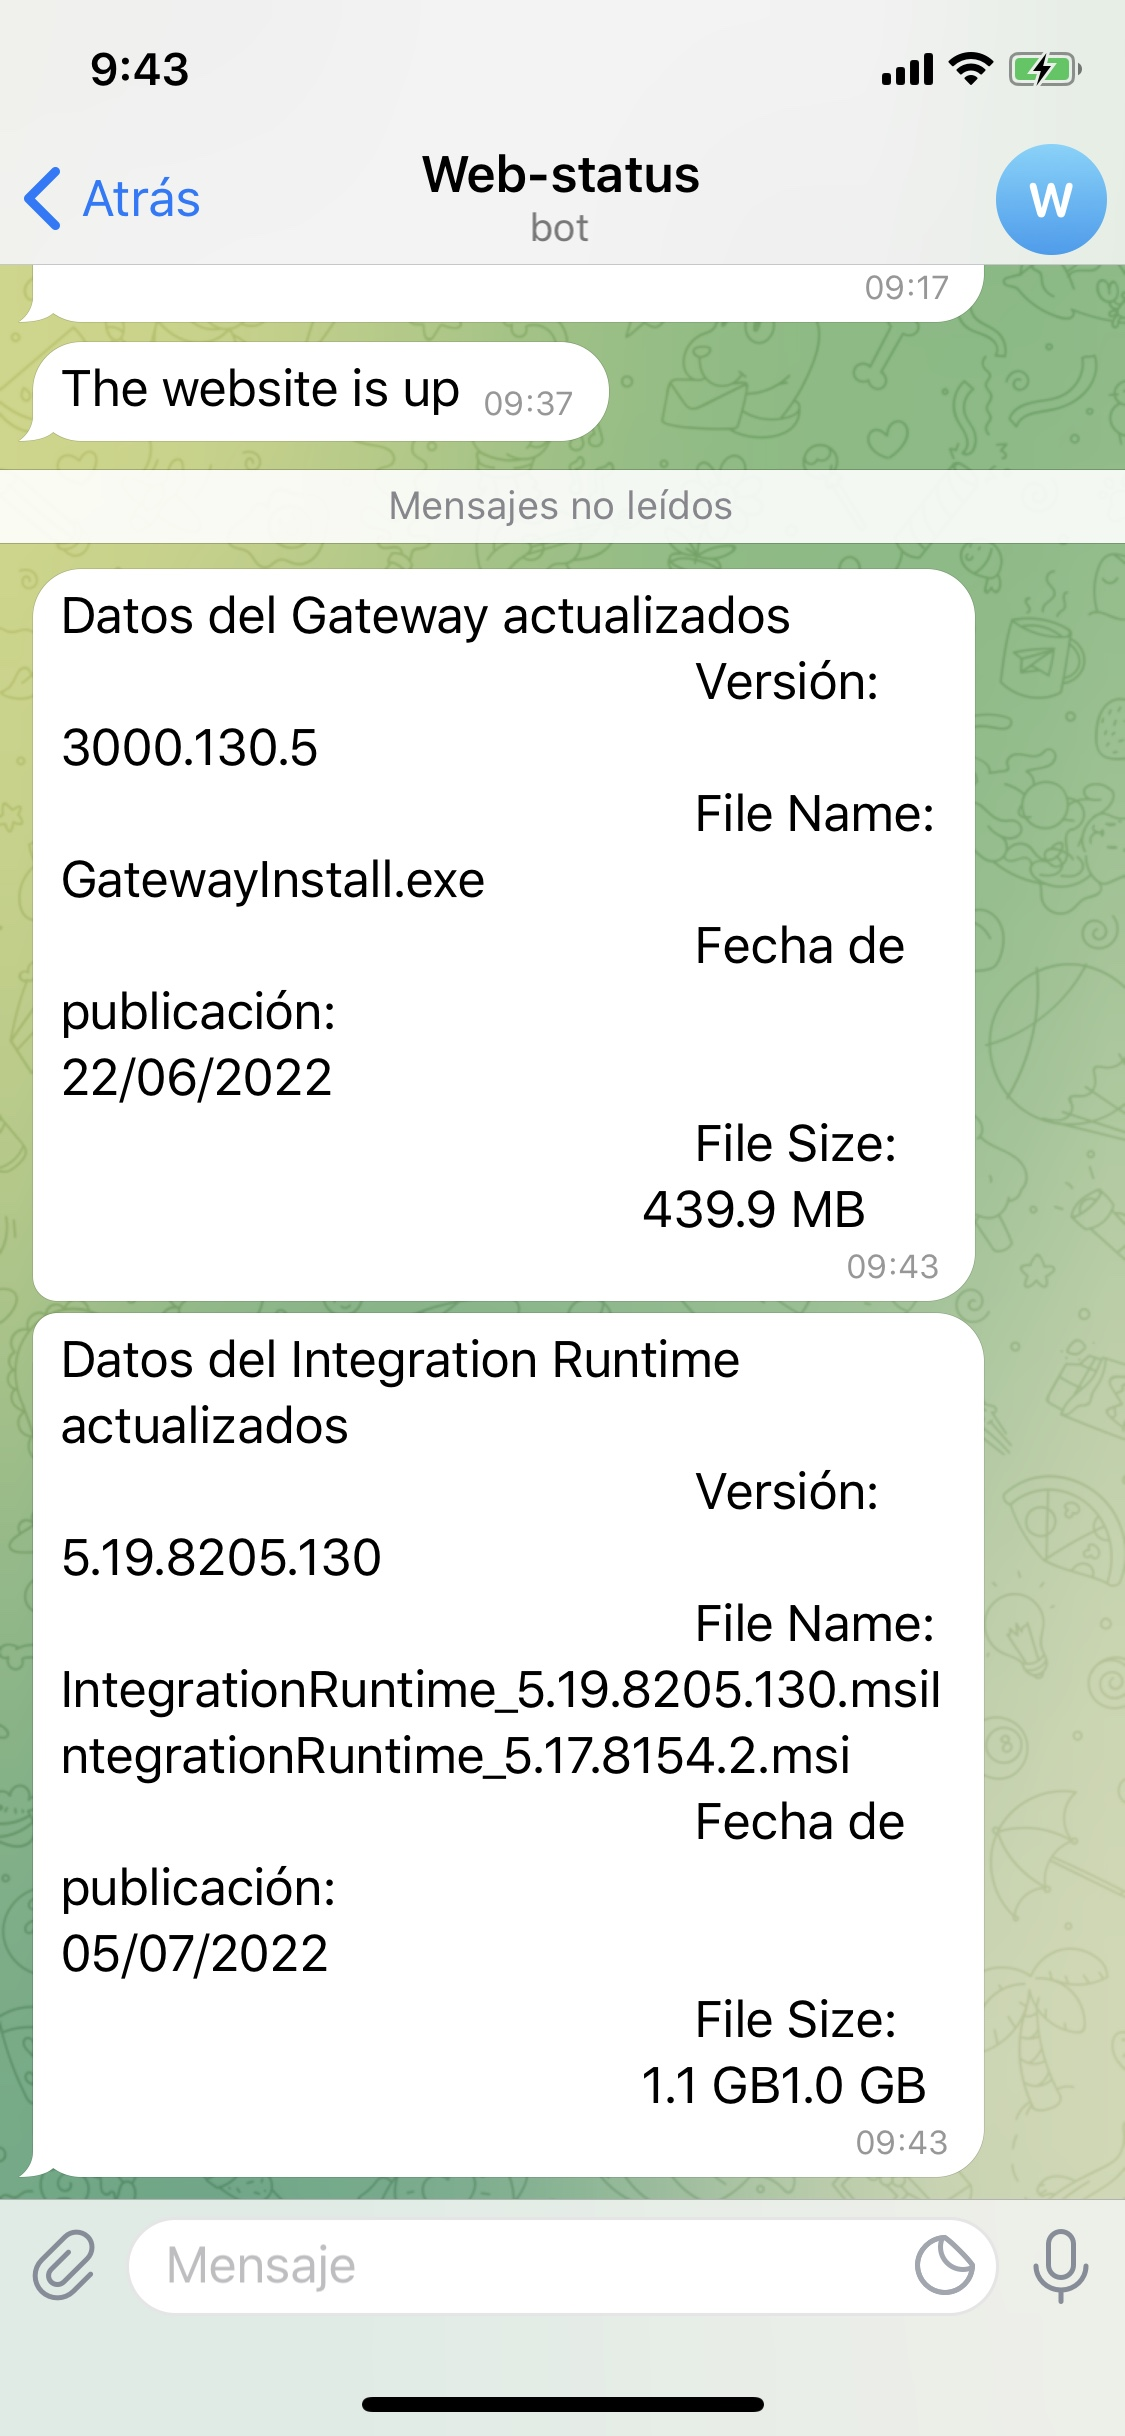
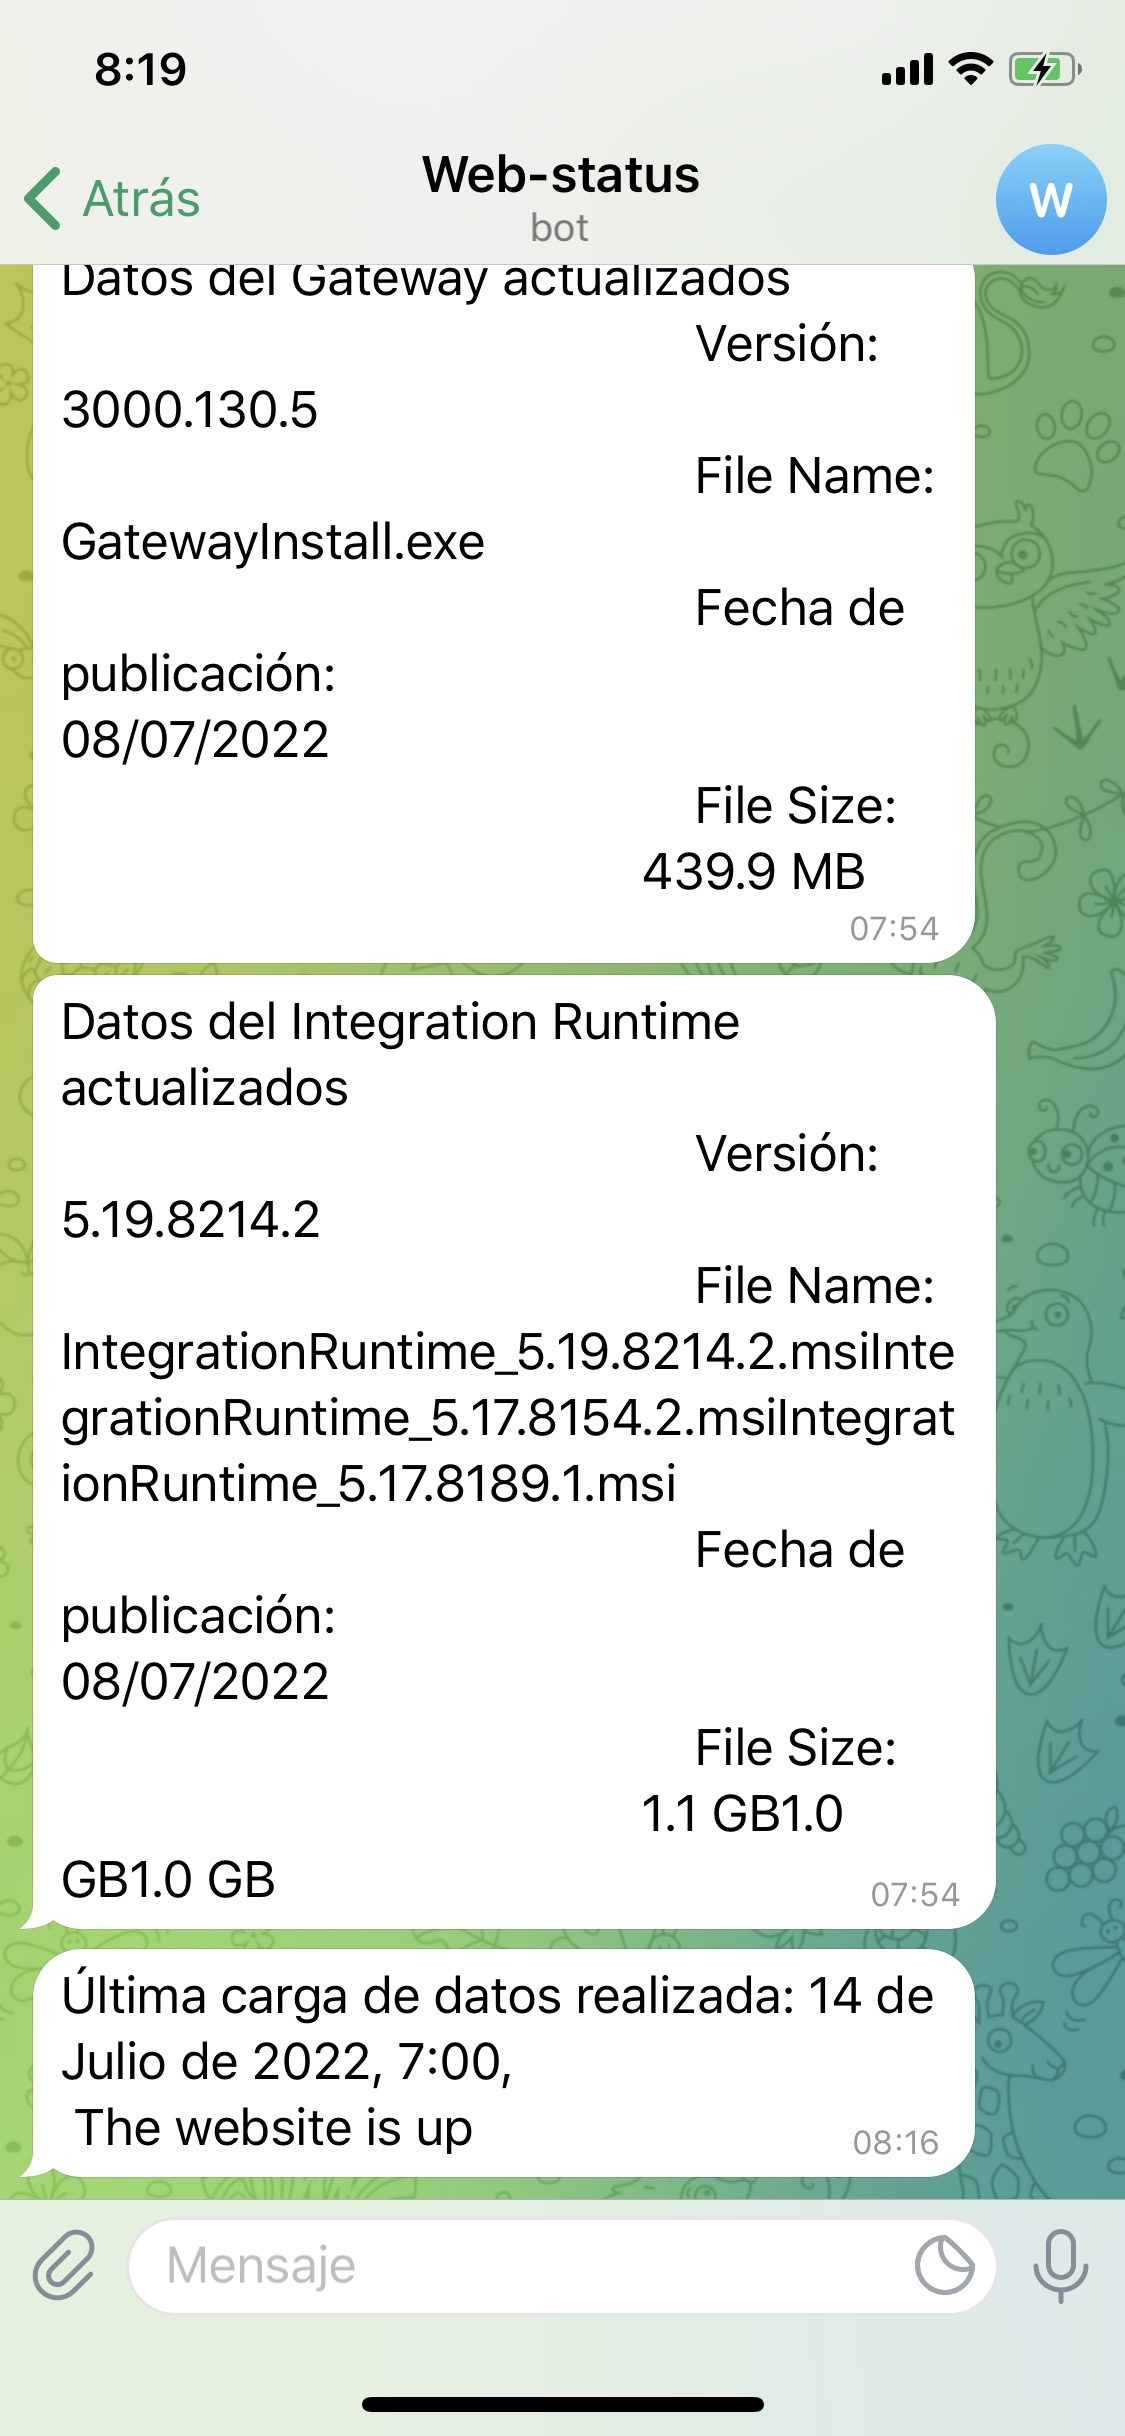
Cambios en script, saca más in formación...

Changed region(s): [[0.0, 0.0624, 1.0, 0.9048], [0.0933, 0.0, 0.1556, 0.0312], [0.9956, 0.0936, 1.0, 0.1248]]

diff --git a/telegram-web-scraper-bot.py b/telegram-web-scraper-bot.py
@@ -8,6 +8,11 @@ import smtplib,time, hashlib
 import requests
 import urllib
 from decouple import config
+from selenium import webdriver
+from selenium.webdriver.chrome.options import Options
+from selenium.webdriver.common.keys import Keys
+from selenium.webdriver.common.by import By
+from selenium.webdriver.common.desired_capabilities import DesiredCapabilities
 TOKEN = config('TOKEN')
 
 #Read the website and read time interval
@@ -15,7 +20,7 @@ input_website = 'https://analisiscalidadaire.madrid.es/situacionactual'
 
 while True:
 #Visit the website to know if it is up
-#Visit the website to know if it is up
+
     status = urllib.request.urlopen(input_website).getcode()
 #If it returns 200, the website is up
     if status != 200:
@@ -25,9 +30,18 @@ while True:
         requests.get("https://api.telegram.org/bot" + TOKEN + "/sendMessage?chat_id=5002532208&text={}".format(ResultText))
     else:
         ResultText = "The website is up"
- 
+        options = Options()
+        options.headless = True
+        driver = webdriver.Remote("http://127.0.0.1:4444/wd/hub",options=options)
+       # driver = webdriver.Chrome('C:/Users/rvilchef/OneDrive - NTT DATA EMEAL/chromedriver', options=options)
+        driver.get("https://analisiscalidadaire.madrid.es/situacionactual")
+        time.sleep(5)
+        a = driver.find_element(by=By.XPATH, value=("//*[@id='tiempo_real_fecha']")).text
+        time.sleep(5)
+
         print(ResultText)
-        requests.get("https://api.telegram.org/bot" + TOKEN + "/sendMessage?chat_id=5002532208&text={}".format(ResultText))
+        b = "Última carga de datos realizada: {}, \n {}".format(a, ResultText)
+        requests.get("https://api.telegram.org/bot" + TOKEN + "/sendMessage?chat_id=5002532208&text={}".format(b))
         time.sleep(2000)
 
 
